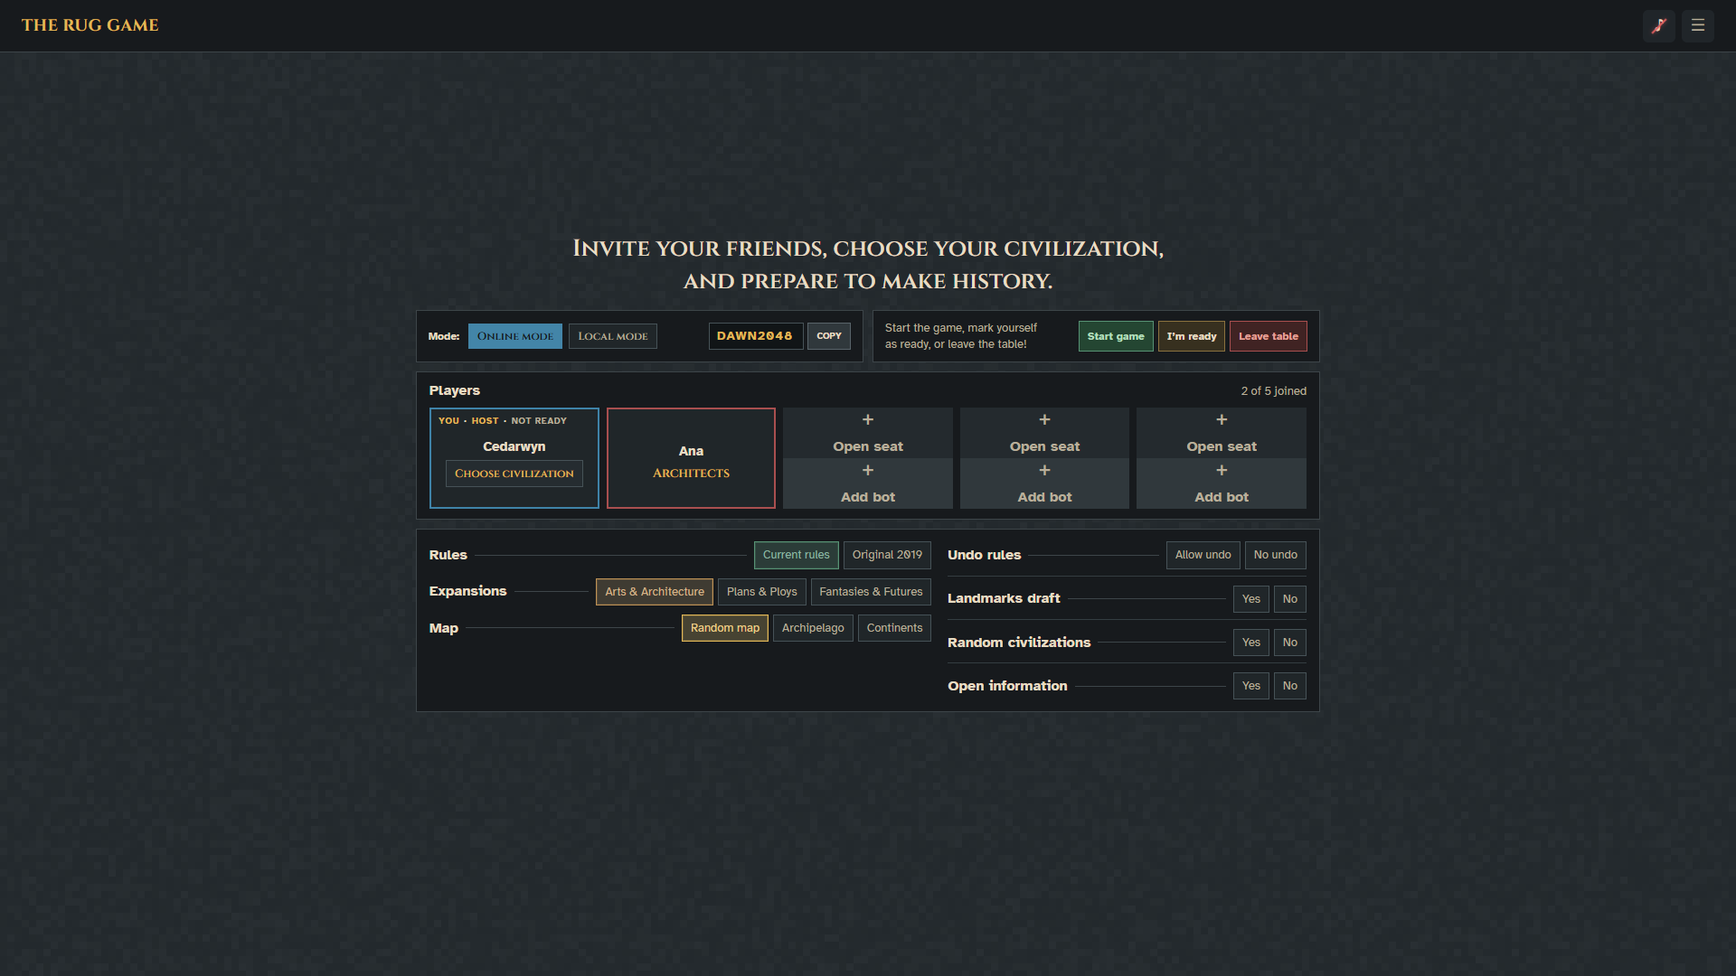
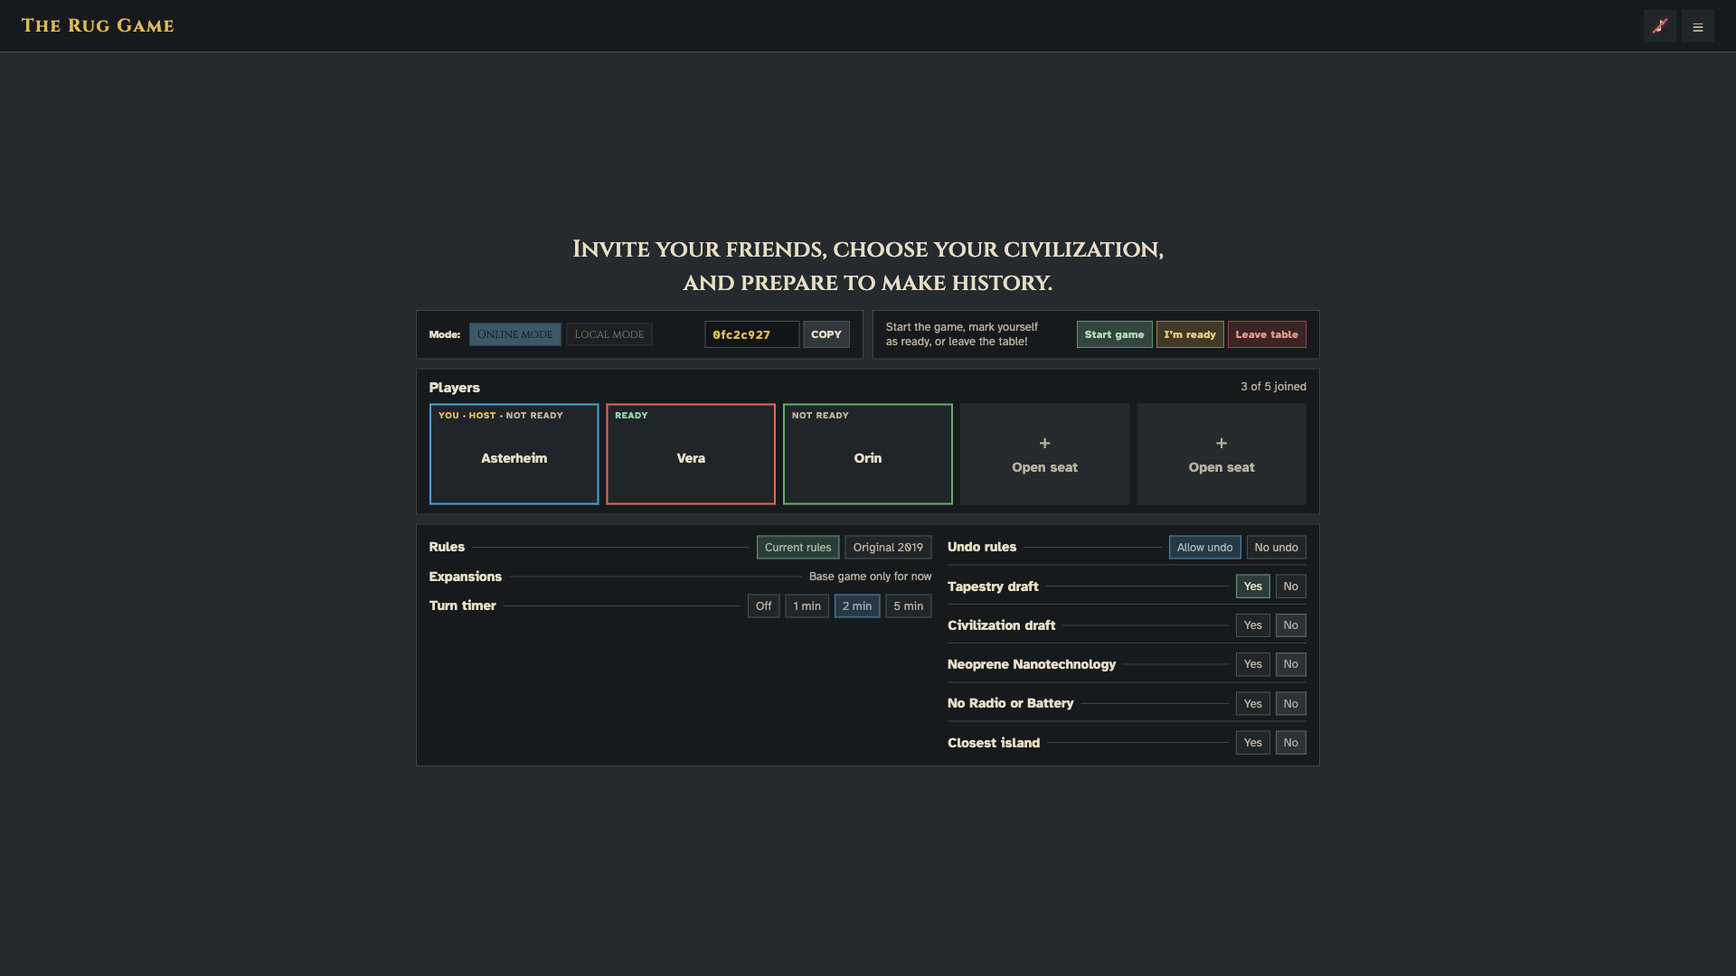
Fix #25: the landing page, the new-table setup and the lobby
The landing page and the lobby run on the real table API, in Lazar's
look, with the game's rules where they collide: readiness on every
online seat, hot-seat players added by name, the turn timer, undo and
the five variants in the settings, and no civilization chooser, since
the rules deal civilizations once the game starts. A holding page
stands in for the game screen until #26.

The README and the UI handoff show the running pages, and CLAUDE.md
records #25 with its calls to revisit and hand-offs.

diff --git a/CLAUDE.md b/CLAUDE.md
@@ -43,16 +43,17 @@ GitHub Actions runs `npm ci`, `npm run check` and `npm test` on every push.
   - Vite's hashed bundles in `assets/` are cached for a year (`immutable`), and `fonts/` and `art/` for a week. Everything else, including the page, gets `no-cache` with a weak ETag, so a new deploy is picked up at once.
   - `/api/*` requests pass a per-address rate limiter (1,800 a minute) and go to the table API in `api.mjs` (#23).
 - `api.mjs` is the table API (#23): `createApi(config)` keeps every table, guest session and long-poll request in memory, and serves `rooms.mjs`.
-  - **Endpoints:** `config`, `tables`, `login`, `me`, `create`, `join`, `state` (`?since=<version>&seat=<n>`), `configure`, `settings` (#24), `add-seat`, `remove-seat`, `start`, `end`, `move`, `undo` (#24) and `leave`.
+  - **Endpoints:** `config`, `tables`, `login`, `me`, `create`, `join`, `state` (`?since=<version>&seat=<n>`), `configure`, `settings` (#24), `add-seat`, `remove-seat`, `ready` (#25, no version), `start`, `end`, `move`, `undo` (#24) and `leave`.
   - **Timers (#24):** each table has one timer, set from `nextDeadline(room)`. `commit()` brings the room's clocks and declines up to date (`tick`) in the same commit as each change, and sets the timer again. When it fires, `playDue()` runs `timeout` and commits only if something progressed. Timers are `unref()`ed and cleared when a table closes or expires and when the server closes (`api.close()`). `config` gains `minuteMs`, `declineMinMs` and `declineMaxMs`, so tests shorten the waits. The design is `docs/superpowers/specs/2026-10-26-timer-and-undo-design.md`.
   - **Changes:** every change goes through `commit()`, which bumps the table's `version` and answers the requests waiting on it; a change carrying a stale `version` gets 409.
   - **What leaves the server:** rooms leave only through `roomView()`, so no person id, token or raw game ever does.
   - **Sessions:** bearer tokens; a session sits at one table at a time.
   - **Limits:** they sit in `config` (exported from `server.mjs`), which the API reads on every use, so tests shorten waits and raise limits there. The design is `docs/superpowers/specs/2026-10-26-server-api-design.md`.
 - `limits.mjs` holds `rateLimiter()` and `clientAddress()`. With `TRUST_PROXY=true`, the last `X-Forwarded-For` address counts; otherwise the header is ignored.
-- `rooms.mjs` holds the table rules (#22) as pure transitions in Bird Table's style: `createRoom`, `configure`, `join`, `addSeat`, `removeSeat`, `leave`, `start`, `end` and `play`, plus `settings`, `undo`, `timeout`, `tick`, `nextDeadline`, `scopeOf`, `phase`, `seatsOf` and `cleanName`. #24 adds `TIMERS` (off, 1, 2 and 5 minutes), `HISTORY_LIMIT` (20 undo steps) and `AUTO_LIMIT` (1,000 automatic answers in a row), and the room fields `timer`, `undo`, `clocks`, `declines` and `history`. Each returns a new room, or `null` when it closes, and throws the engine's `PlayerError`. The code says room, players see table. For the server's `Map` of rooms it has `newCode`, `addRoom` (`MAX_ROOMS` 1,000), `expireRooms` (`ROOM_IDLE_MS`, a day), `openTables` and `unfinishedSeat`. Room seat `i` is game seat `i + 1`; seats never move or disappear while a game is on the table. It uses the engine only through `src/lib/engine/game.js`, whose `checkOptions()` checks a table's options.
+- `rooms.mjs` holds the table rules (#22) as pure transitions in Bird Table's style: `createRoom`, `configure`, `join`, `addSeat`, `removeSeat`, `leave`, `start`, `end` and `play`, plus `settings`, `undo`, `timeout`, `tick`, `nextDeadline`, `scopeOf`, `phase`, `seatsOf` and `cleanName`. #25 adds `ready` (a seat's readiness in an online lobby, cleared by a host change). #24 adds `TIMERS` (off, 1, 2 and 5 minutes), `HISTORY_LIMIT` (20 undo steps) and `AUTO_LIMIT` (1,000 automatic answers in a row), and the room fields `timer`, `undo`, `clocks`, `declines` and `history`. Each returns a new room, or `null` when it closes, and throws the engine's `PlayerError`. The code says room, players see table. For the server's `Map` of rooms it has `newCode`, `addRoom` (`MAX_ROOMS` 1,000), `expireRooms` (`ROOM_IDLE_MS`, a day), `openTables` and `unfinishedSeat`. Room seat `i` is game seat `i + 1`; seats never move or disappear while a game is on the table. It uses the engine only through `src/lib/engine/game.js`, whose `checkOptions()` checks a table's options.
 - **Client.** The browser interface is **Svelte 5** with runes forced on (5.57.2), built by **Vite** (8.3.4), without SvelteKit. The project root is Vite's root, laid out like the owner's other Svelte projects (owner, 2026-10-21). The full layout is in CONVENTIONS.md.
-  - `index.html` is the game page. `src/main.js` mounts `src/App.svelte`, which is the placeholder page until #25.
+  - `index.html` is the game page. `src/main.js` mounts `src/App.svelte`, which shows one screen at a time from the store (#25): `src/screens/Landing.svelte`, `Lobby.svelte`, and `Holding.svelte` after Start until #26, with `PageHeader.svelte` and `HelpPanel.svelte`. Screens own state and call the store; the components in `src/lib/components/` stay presentational.
+  - The client's plain modules (#25), each tested under `node --test`: `src/lib/api.js` (`createApi`, `ApiError`; the token in `sessionStorage`, so each tab is its own guest), `changes.js` (`change()`: a stale version is retried once while the seats stay the same), `boot.js` (where a returning tab lands), `poll.js` (`pollTable`, one long poll at a time with back-off), `lobby.js` (seat slots, who may change what, labels) and `names.js` (Lazar's name generator). `src/lib/game.svelte.js` is the rune store that ties them together.
   - `components.html` is the component library page (#48). `src/library/main.js` mounts `src/library/Library.svelte`, which collects every `src/library/sections/<area>/<Name>.svelte` and shows each component in all its states. `src/lib/components/README.md` indexes the components.
   - `src/lib/` holds everything the app shares:
     - `components/<area>/` holds the Svelte components, grouped by area;
@@ -95,9 +96,9 @@ Updated 2026-10-26. Update this section whenever a milestone moves.
   - The component library (#48, 2026-10-21): 34 components in `src/lib/components/`, each shown in all its states on `/components.html`, which also holds the art. Several components show placeholders until their art lands; `src/lib/components/README.md` lists them. The owner closed #48 on 2026-10-21, ahead of its blocker #3.
   - The approved art style C (`docs/art/`).
   - All 43 issues filed in [serferdinand2/the-rug-game](https://github.com/serferdinand2/the-rug-game/issues).
-- **#1, #2, #4, #7, #8, #9, #10, #11, #12, #13, #14, #15, #16, #17, #18, #19, #20, #21, #22, #23, #24, #44, #46, #48, #52, #53 and #54 are done.**
+- **#1, #2, #3, #4, #7, #8, #9, #10, #11, #12, #13, #14, #15, #16, #17, #18, #19, #20, #21, #22, #23, #24, #25, #44, #46, #48, #52, #53 and #54 are done.** Lazar closed #3 on 2026-10-27.
   - The Node server, tests and CI exist.
-  - The client is a Svelte 5 app built by Vite. The page is a placeholder until #25.
+  - The client is a Svelte 5 app built by Vite. The landing page and the lobby are built (#25); the game screen comes with #26–#28.
   - Every unverified rule detail is decided in the README's "Rules conventions" (R1–R110).
 - **#4 (art toolkit and asset catalog)** is done. The owner approved the scene parts on 2026-10-21.
 - **#7 (landmarks)** is done. All 33 are drawn, each one picture in its footprint's shape, and the owner approved them in the asset gallery (`art/preview/index.html`) on 2026-10-21.
@@ -317,6 +318,24 @@ Updated 2026-10-26. Update this section whenever a milestone moves.
   - Calls to revisit: any mix of variants in both versions, each at most once; the drafts' discards are public; `tapestry-draft` changes only income turn 1's Ceremony card; the civilization pick can be undone but the tapestry keep can't; R110's reading.
   - Handed off: #3 and #25 (the variant checkboxes, from `config`'s `variants`), #26 (show bonuses through `bonusOf`), #28 (prompts for `chooseKeep` and the mid-game `chooseCiv`), #29 (the log names a game's variants), #31 (whether the variants touch the Automa's draws), #33, #35 and #40.
   - `tests/engine-variants.test.mjs` covers each variant, and `checkViews()` now also watches the civilizations of an open mid-game draft. A fresh review found no bug; its smaller findings (repeated ids, missing tests, this file) are fixed. The simulation plays every other 20 games with all five on. In those games every income turn 1 drafts, but no game gains a civilization or reaches Nanotechnology, so the unit tests carry those two.
+- **#25 (the landing page, the new-table setup and the lobby)** is done (2026-10-27). The design is `docs/superpowers/specs/2026-10-27-landing-and-lobby-design.md` and the plan is `docs/superpowers/plans/2026-10-27-landing-and-lobby-issue-25.md`.
+  - The owner's rules for the client (2026-10-27): where Lazar's mockups and the owner's design collide, the mockups decide the look and the owner's design decides what works; and the client fits our own API rather than copying Fablewood or Bird Table. The owner chose readiness as an informational toggle, and #25, then #26–#28, then #6.
+  - Built: the landing page (sign in by name, a generated name when blank, create, join by code or from the Open tables list, Return to your game), the lobby (Online/Local mode, the code and COPY, Start game, I'm ready and Leave table, five seats, hot-seat players added by name, the host's ×, the settings), and a holding page after Start. A refresh comes back to the table; a player the host removes lands back on the landing page.
+  - The server gained `ready()` and `POST /api/ready`. The random room test checks that readiness lives only in an online lobby and that a host change clears it.
+  - CI on main had been red since Lazar's `src/styles/card-layouts.css` (hard-coded colours, undeclared custom properties); its colours now name tokens with the same values (Refs #47).
+  - Calls to revisit:
+    - No civilization in the lobby: the rules deal two once the game starts (#28). The mockup's Map row and three sample rule rows are left out; the five variants take their place as Yes/No rows, under Undo rules.
+    - Online, Open seat copies the code; Take the seat! is left out, as the server seats joiners in order.
+    - A host change to the rules, variants, timer or undo clears everyone's readiness; a joiner starts not ready.
+    - A stale change is sent once more when the seats are the same, otherwise "The table changed. Try again."
+    - Each browser tab is its own guest (`sessionStorage`); sound is remembered in `localStorage` and starts muted.
+    - The mode switch, the divider and the Open tables heading are in Cinzel, as in the mockups; the brand keeps the play mockup's look.
+  - Handed off: #26–#28 replace the holding page and add the in-game header controls; #29 the finished table, dealing again and the log; #30 the hot-seat pass screen (`state?seat=`); #31 solo mode and the Automa's level in the lobby; the expansion issues appear by themselves once `config.expansions` lists them; #43 Discord login.
+  - `tests/client-api.test.mjs` (against the server on port 0), `client-lobby`, `client-names` and `client-poll` cover the client modules; `rooms.test.mjs` and `api.test.mjs` cover readiness. A browser walkthrough with several tabs checked every flow, and the README's screenshots come from the running game.
+- **Decided 2026-10-27:**
+  - Lazar's mockups decide the look and the owner's design decides what works, where they collide; the client is designed for our own API (owner, #25).
+  - Readiness is informational: the host may start without it (owner, #25).
+  - Work order: #25, then #26–#28, then #6. #26 draws the game's real hex grids (34 hexes for 1–3 players, 61 for 4–5) instead of the mockup's filler map, until #6's map art exists (owner).
 - **Decided 2026-10-26:**
   - R109: Alien Biology scores 5 VP on a track whose token AI Singularity took off, as FAQ #9 treats the token as still on space 12 (owner, #54).
   - A table may switch on 7 of the 8 official optional variants: the tapestry and civilization drafts, the neoprene Nanotechnology bonus, leaving out Radio and Lithium-Ion Battery, closest-island starts, civilizations from one expansion and either science die. Not the players removing cards of their choice (owner, #53).
@@ -342,9 +361,8 @@ Updated 2026-10-26. Update this section whenever a milestone moves.
   - Cloud Colonies is back (owner). R77 lists the territories that show clouds, read from BGA's tile and board images, and #49 adds the card. The territory-tile and map art (#6) must show clouds on exactly those territories.
   - The owner-check rules are settled by Board Game Arena for now, not the physical box (owner). 17 are marked **BGA** in the README's "Rules conventions"; R28 and R40 were corrected to match BGA, and R66 now gives the track order from BGA's board images, so Twin Impact is in. R12 and R39 stay owner-check, because BGA has no data for them.
 - **Next:**
-  - #25 (the client side) is still blocked by #3, and #26 and #27 by #6, so no game screen can start yet. #24 and #53 are done; their entries list what they hand off.
+  - #26 (the Tracks and the World Map), #27 (the player area) and #28 (the decision prompts), in that order. The owner asked for them ahead of their blocker #6; the map is drawn as the game's real hex grids until #6's art lands. Then #6.
   - #45 Check R12 (landmark heights) and R39 (decision-card arrows) against the physical box. This is the owner's job, and it blocks nothing.
-  - #3 Design the remaining screens (assigned to lazar-milin). Phase one is handed off in `docs/ui/README.md`; income, further decisions, results and the listed setup/details gaps remain. The production `tokens.css` and `base.css` now follow it, but #3 stays open.
   - #6 Finish the remaining map, territory-tile and expansion capital art. The cosmetic boards wait in #51 until the core features are done.
 - **Everything else is blocked** until earlier issues close (see "Working on issues").
 

diff --git a/README.md b/README.md
@@ -10,7 +10,7 @@ It is built like the author's other table games, [Fablewood Rummy](https://githu
 
 No official Stonemaier artwork, logos or rulebook text are used.
 
-> **Status: in development.** The rules research, the design plan, the main game screen and the art style are approved. The base-game rules engine (M3) is complete, with a test that plays 200 random games to the end. In M4 the table rules and the server API are in: two clients can already play a whole game over HTTP. The turn timer and undo are in too: the host sets a turn timer, the server plays out a timed-out turn, and a player can take back their own choices within their turn. A table can also switch on five of the official optional variants. The game screens arrive with M5. Work follows the [issues](https://github.com/serferdinand2/the-rug-game/issues) in milestone order.
+> **Status: in development.** The rules research, the design plan, the main game screen and the art style are approved. The base-game rules engine (M3) is complete, with a test that plays 200 random games to the end. In M4 the table rules and the server API are in: two clients can already play a whole game over HTTP. The turn timer and undo are in too: the host sets a turn timer, the server plays out a timed-out turn, and a player can take back their own choices within their turn. A table can also switch on five of the official optional variants. In M5 the landing page and the lobby are built; the game screen comes next. Work follows the [issues](https://github.com/serferdinand2/the-rug-game/issues) in milestone order.
 
 ## Current interface
 
@@ -24,17 +24,19 @@ The owner-reviewed icons and small pieces from **#5** are available as SVGs in `
 
 The component library now uses the approved resources in prices and chips, income-building SVGs on capital plots, track symbols in headings, and player-color token SVGs on progress lanes. Its Art sections show the complete issue #5 set and explain the three deferred groups. Capital examples compose individual terrain tile SVGs using their supplied biome, visual seed and plot mask; the six full mat SVGs remain example compositions only.
 
-The **phase-one UI/UX handoff for #3** is in [docs/ui/README.md](docs/ui/README.md). It is the manifest for building the real game pages: layout, typography, colours, control states, placement and decision examples, and the remaining designs. The HTML pages are interactive mockups with fixture data; the Svelte application is still a placeholder.
+The **UI/UX handoff for #3** is in [docs/ui/README.md](docs/ui/README.md). It is the manifest for building the real game pages: layout, typography, colours, control states, placement and decision examples. The HTML pages are interactive mockups with fixture data.
+
+**The landing page and the lobby are built (#25)** and run on the real table API: sign in by name, create or join a table, pick an open one, set the table up and start. Run `npm start` and open <http://127.0.0.1:3020/>. The game screen comes with #26–#28; until then, a started game shows a holding page.
 
 The colours, texture, type, spacing, shadows and motion of these designs are in [src/styles/tokens.css](src/styles/tokens.css), the single source of truth for the look.
 
-Open the references directly or run `node docs/ui/preview.mjs` (port 52990): [Launch](docs/ui/launch.html), [Lobby](docs/ui/lobby.html), [Game](docs/ui/main-screen.html).
-
-| Launch | Lobby |
+| Landing page | Lobby |
 |---|---|
-| ![Phase-one launch page](docs/ui/screens/launch.png) | ![Phase-one lobby page](docs/ui/screens/lobby.png) |
+| ![The landing page, with two open tables](docs/ui/screens/launch.png) | ![The lobby with three players, one ready, the turn timer at 2 minutes and the tapestry draft on](docs/ui/screens/lobby.png) |
 
-**Game: tracks and capital, at the 1920×1080 desktop reference size.**
+The game screen is still a mockup. Open the references directly or run `node docs/ui/preview.mjs` (port 52990): [Launch](docs/ui/launch.html), [Lobby](docs/ui/lobby.html), [Game](docs/ui/main-screen.html), [End screen](docs/ui/end-screen.html).
+
+**Game mockup: tracks and capital, at the 1920×1080 desktop reference size.**
 
 ![Phase-one play page](docs/ui/screens/tracks-capital.png)
 
@@ -54,7 +56,7 @@ Open the references directly or run `node docs/ui/preview.mjs` (port 52990): [La
 |---|---|
 | ![The Collectors card in option B, empty](docs/ui/screens/civ-card-b.png) | ![The Collectors card in option B with three items collected](docs/ui/screens/civ-card-b-in-play.png) |
 
-The earlier PNG mockups and their HTML/generator are preserved in [docs/ui/archivedpngmockups/](docs/ui/archivedpngmockups/README.md). They are superseded references. Issue #3 remains open for the income sequence, additional decision prompts, results and the other gaps listed in the manifest.
+The earlier PNG mockups and their HTML/generator are preserved in [docs/ui/archivedpngmockups/](docs/ui/archivedpngmockups/README.md). They are superseded references. Lazar closed #3 on 2026-10-27; the end screen is still a proposal.
 
 ## Run locally
 
@@ -67,7 +69,7 @@ npm run dev    # hot-reloading development server on http://127.0.0.1:5173 (the 
 npm test
 ```
 
-Copy [.env.example](.env.example) to `.env` to change the host or port, or to trust a reverse proxy. For now the app shows a placeholder page; the game screens arrive with milestone M5.
+Copy [.env.example](.env.example) to `.env` to change the host or port, or to trust a reverse proxy. The app opens on the landing page, where you create or join a table; the game screen arrives with the rest of milestone M5.
 
 ## Deploying
 

diff --git a/docs/ui/README.md b/docs/ui/README.md
@@ -98,6 +98,8 @@ Use gold for selection, the track colours for track names, and green for the cur
 
 ![Launch page](screens/launch.png)
 
+**Built in #25 (2026-10-27).** The screenshot is the running game, not the mockup. It follows `launch.html`, with what the server needs added in the same look: a **Return to your game** button when the player left a running game, and loading, empty and failed states for Open tables. The rows show the code, the seats and the rules; an expansion badge appears once expansions exist. The design is `docs/superpowers/specs/2026-10-27-landing-and-lobby-design.md`.
+
 The page flows vertically beneath the header and has no footer. The brand sits at the left, the Atkinson header sentence is centered, and sound/menu controls sit at the right. A large centered Cinzel headline names Exploration, Science, Technology and Military in their track colours.
 
 The central panel stack is about 530px wide at the review size. Both panels have the dark header background and align to the same width:
@@ -113,6 +115,14 @@ The three advertised tables are fixtures. Production must obtain open tables fro
 ## Lobby page
 
 ![Lobby page](screens/lobby.png)
+
+**Built in #25 (2026-10-27).** The screenshot is the running game. Where the mockup and the game's rules or server differ, the owner's rule applied (2026-10-27): the mockup decides the look, the game decides what works.
+
+- **Readiness** is a server toggle and shows on every online seat; the host may start without it. A host change to the rules, variants, timer or undo clears it.
+- **No civilization in the lobby.** Each player is dealt two civilizations once the game starts and keeps one (#28); the seats show no civilization line, and there is no chooser.
+- **Open seat**, online, copies the table code: a friend fills a seat by joining with it. **Take the seat!** is left out, because the server seats joiners in order. At a hot-seat table, Open seat opens a name field (SeatCard's `add` state).
+- **Settings:** Rules, Expansions ("Base game only for now" until there are any) and **Turn timer** on the left; **Undo rules** and the five optional variants as Yes/No rows on the right. The mockup's Map row and its three sample rule rows aren't game rules, so they are left out. Only the host changes them; the others see them disabled.
+- The mode switch changes only while the host is alone at the table.
 
 The lobby uses a fixed 1920×1080 canvas. The main stack is **1000px wide**, centered horizontally, with the invitation above it. Its intentional two-line break is:
 
@@ -152,6 +162,8 @@ The X appears at the top right on hover/focus where applicable. It must never hi
 **Add bot is shelved (owner, 2026-10-21).** Don't build the **+ Add bot** choice, the bot seat row above, or the host's bot civilization control below. Until it returns, an unconfigured slot shows only **+ Open seat**, filling the same 112px slot, and the host's X returns a slot to that single choice. Solo play with the official Automa and Shadow Empire still needs its own setup design under #3.
 
 ### Civilization chooser
+
+Mockup only: the built lobby has no chooser, because the rules deal civilizations once the game starts (see the #25 note above). The choice of two dealt civilizations is a decision prompt (#28).
 
 - Clicking your chosen civilization reopens the chooser, so it can be changed.
 - The host can also open the chooser from a bot's civilization control and change that bot's selection. (Shelved with Add bot.)
